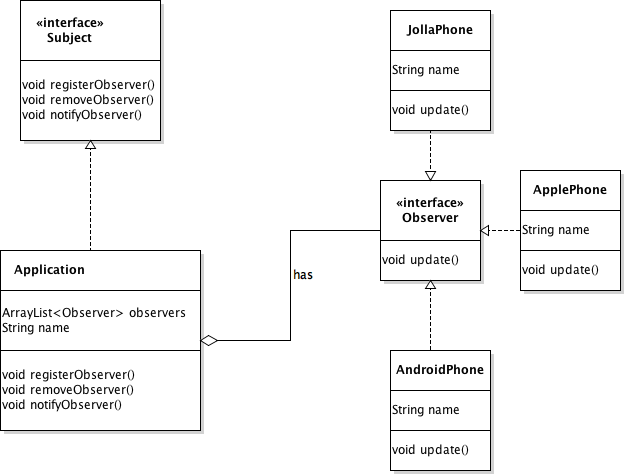
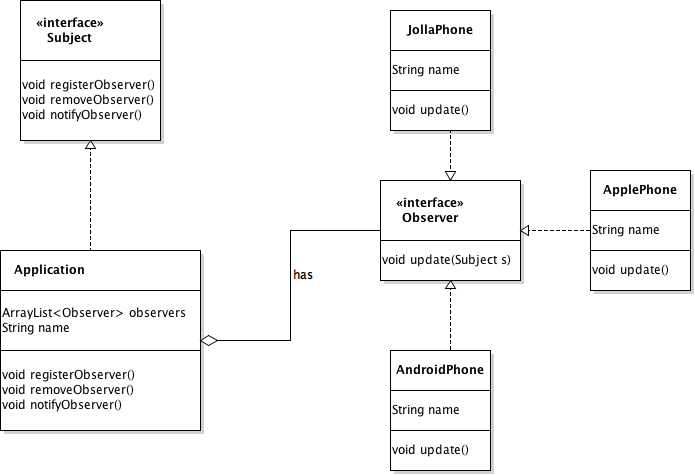
week 8 done

diff --git a/src/week8/Main.java b/src/week8/Main.java
@@ -1,15 +1,59 @@
 package week8;
 
+import java.io.IOException;
+import java.nio.file.Files;
+import java.nio.file.Path;
+import java.nio.file.Paths;
+import java.util.stream.Stream;
+
 /**
  * Created by ironman on 23/03/16.
  * Week 8, Observe!
  */
 public class Main {
+
+
     public static void main(String[] args) {
-        //mobile = observer
-        //app = subject
+
+        Application weatherApp = new Application("WeatherApp");
+        Application bestGame = new Application("Game");
+        Application angrybirds = new Application("AngryBirds");
+
+        Observer iphone = new Iphone();
+        Observer jolla = new Jolla();
+        Observer android = new Android();
+
+        weatherApp.registerObserver(iphone);
+        weatherApp.registerObserver(jolla);
+
+        weatherApp.setStatus("Too hot");
+        //weatherApp.notifyObserver();
+
+        bestGame.registerObserver(iphone);
+        bestGame.registerObserver(android);
+        bestGame.setStatus("Three new levels added!");
+
+        angrybirds.registerObserver(jolla);
+        angrybirds.setStatus("Check your new, even angrier birds, just for Jolla!");
+
+        System.out.println("File reading...\n");
+        updateStuff(weatherApp, "weather.txt");
+        updateStuff(angrybirds, "birds.txt");
 
 
+    }
+
+    private static void updateStuff(Application s, String file) {
+
+        String p = System.getProperty("user.dir");
+
+        file = p + "/src/week8/" +file;
+
+        try (Stream<String> stream = Files.lines(Paths.get(file))){
+            stream.forEach(e -> s.setStatus(e));
+        } catch (IOException e){
+            e.printStackTrace();
+        }
     }
 
 }

diff --git a/src/week8/Application.java b/src/week8/Application.java
@@ -1,19 +1,41 @@
 package week8;
 
 
-public class Application implements Subject {
-    @Override
-    public void registerObserver() {
+import java.util.ArrayList;
 
+public class Application implements Subject {
+    private String name;
+    private String status;
+    private ArrayList<Observer> observers;
+
+    public Application(String n){
+        name = n;
+        status = "Initializing...";
+        observers = new ArrayList<>();
     }
+
+    @Override
+    public void registerObserver(Observer o) {
+        observers.add(o);
+    }
+
 
     @Override
     public void notifyObserver() {
-
+        observers.forEach(e->e.update(this));
     }
 
     @Override
-    public void removeObserver() {
+    public void removeObserver(Observer o) {
+        observers.remove(o);
+    }
 
+    public void setStatus(String s){
+        status= name + " Updates: " +s;
+        notifyObserver();
+    }
+
+    public String getStatus() {
+        return status;
     }
 }

diff --git a/src/week8/Android.java b/src/week8/Android.java
@@ -1,0 +1,13 @@
+package week8;
+
+/**
+ * Created by ltrgit on 25/03/16.
+ */
+public class Android implements Observer{
+    @Override
+    public void update(Subject s) {
+        Application app = (Application) s;
+        System.out.println("Android " + app.getStatus());
+
+    }
+}

diff --git a/src/week8/Iphone.java b/src/week8/Iphone.java
@@ -1,0 +1,13 @@
+package week8;
+
+/**
+ * Created by ltrgit on 25/03/16.
+ */
+public class Iphone implements Observer{
+    @Override
+    public void update(Subject s) {
+        Application app = (Application) s;
+        System.out.println("Iphone " + app.getStatus());
+
+    }
+}

diff --git a/src/week8/Jolla.java b/src/week8/Jolla.java
@@ -1,0 +1,13 @@
+package week8;
+
+/**
+ * Created by ltrgit on 25/03/16.
+ */
+public class Jolla implements Observer{
+    @Override
+    public void update(Subject s) {
+        Application app = (Application) s;
+        System.out.println("Jolla " + app.getStatus());
+
+    }
+}

diff --git a/src/week8/Subject.java b/src/week8/Subject.java
@@ -2,7 +2,7 @@ package week8;
 
 
 interface Subject {
-    void registerObserver();
-    void removeObserver();
+    void registerObserver(Observer o);
+    void removeObserver(Observer o);
     void notifyObserver();
 }

diff --git a/src/week8/Observer.java b/src/week8/Observer.java
@@ -2,5 +2,5 @@ package week8;
 
 
 public interface Observer {
-    void update();
+    void update(Subject s);
 }
